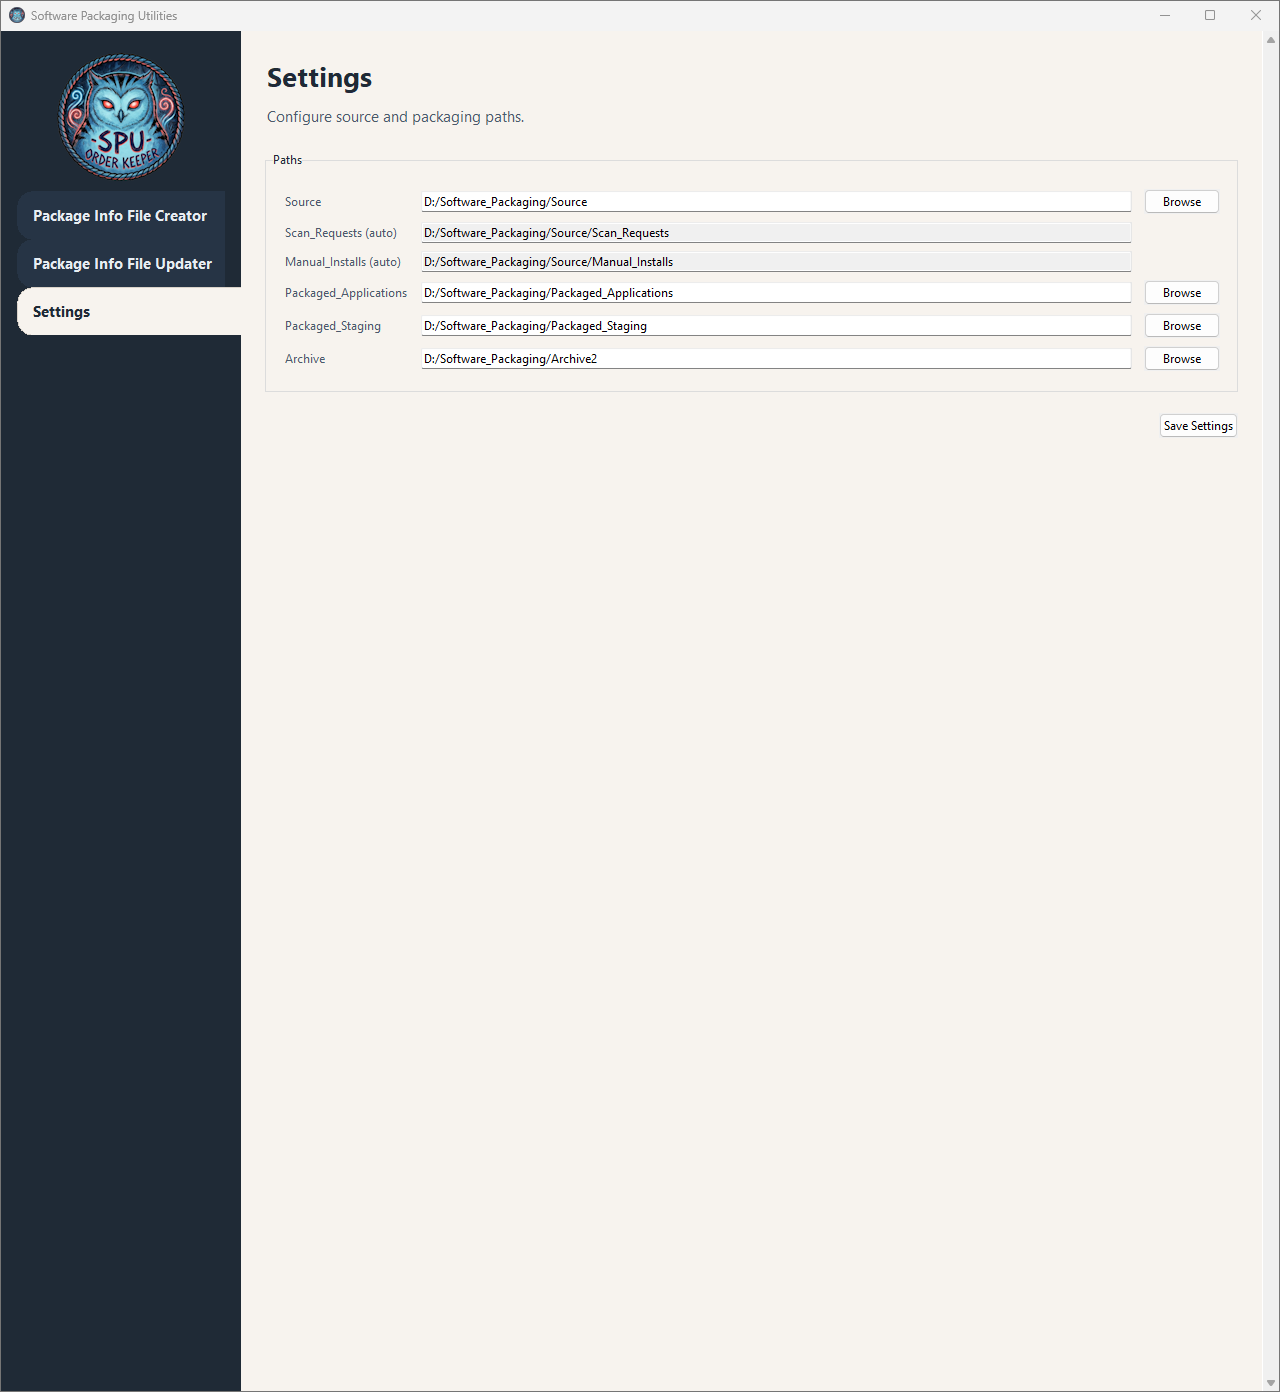
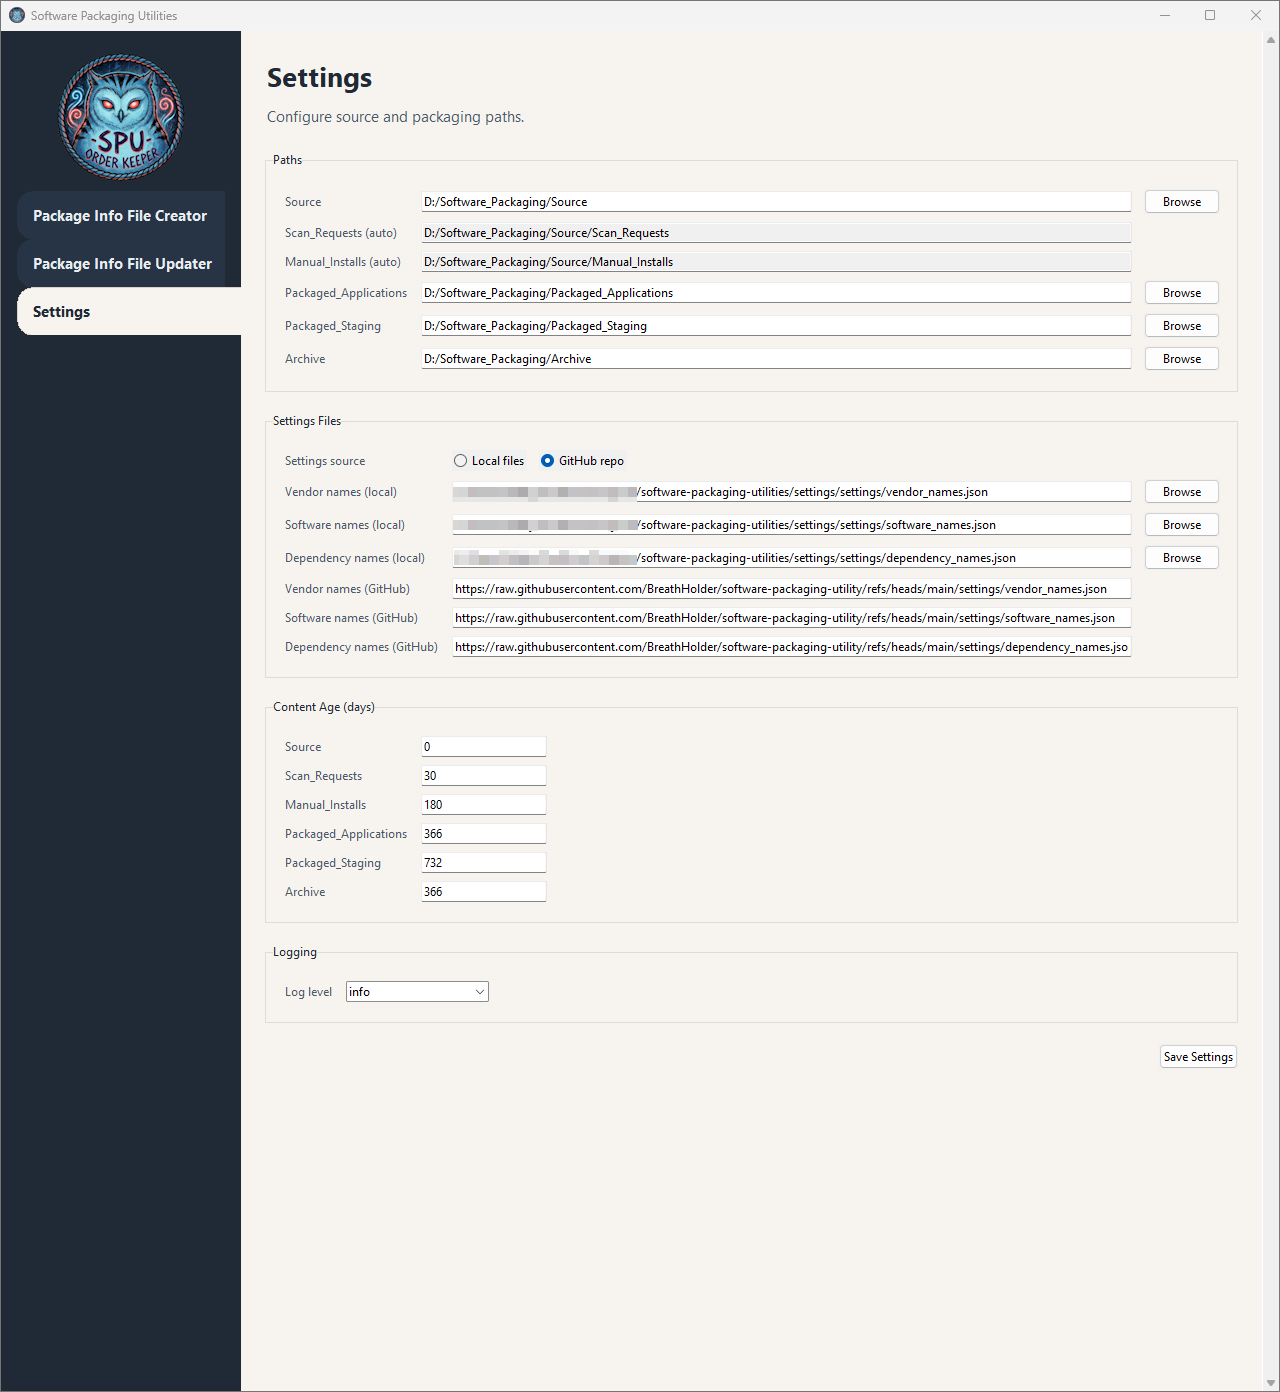
update readme, screenshot, and settings files to include the base construct for logging levels in settings.

diff --git a/src/utils/settings.py b/src/utils/settings.py
@@ -14,6 +14,7 @@ from src.config import (
     FILE_PATHS_DEPENDENCY_NAMES,
     FILE_PATHS_SOFTWARE_NAMES,
     FILE_PATHS_VENDOR_NAMES,
+    LOGGING_LEVEL,
     RETENTION_MANUAL_INSTALLS,
     RETENTION_PACKAGED_APPLICATIONS,
     RETENTION_SCAN_REQUESTs,
@@ -111,6 +112,9 @@ def build_settings_frame(parent: tk.Widget) -> ttk.Frame:
     )
     content_age_archive_var = tk.StringVar(
         value=str(_get_int_setting(settings, "content_age_archive_days", 0))
+    )
+    log_level_var = tk.StringVar(
+        value=_get_string_setting(settings, "log_level", LOGGING_LEVEL).lower()
     )
 
     def set_dirty(value: bool = True) -> None:
@@ -303,6 +307,23 @@ def build_settings_frame(parent: tk.Widget) -> ttk.Frame:
         on_change=mark_dirty,
     )
 
+    logging_group = ttk.LabelFrame(frame, text="Logging", padding=16)
+    logging_group.pack(fill=tk.X, pady=(0, 20))
+    logging_group.columnconfigure(1, weight=1)
+
+    ttk.Label(logging_group, text="Log level", style="Body.TLabel").grid(
+        row=0, column=0, sticky="w", pady=4, padx=(0, 12)
+    )
+    log_level_combo = ttk.Combobox(
+        logging_group,
+        textvariable=log_level_var,
+        values=["debug", "info", "warn", "error"],
+        state="readonly",
+        width=20,
+    )
+    log_level_combo.grid(row=0, column=1, sticky="w", pady=4)
+    log_level_combo.bind("<<ComboboxSelected>>", mark_dirty)
+
     actions = ttk.Frame(frame, style="Content.TFrame")
     actions.pack(fill=tk.X)
     save_button = ttk.Button(
@@ -329,6 +350,7 @@ def build_settings_frame(parent: tk.Widget) -> ttk.Frame:
             content_age_packaged_applications_var.get(),
             content_age_packaged_staging_var.get(),
             content_age_archive_var.get(),
+            log_level_var.get(),
             set_dirty,
         ),
     )
@@ -413,6 +435,7 @@ def _save_settings(
     content_age_packaged_applications_days: str,
     content_age_packaged_staging_days: str,
     content_age_archive_days: str,
+    log_level: str,
     set_dirty,
 ) -> None:
     """Validate inputs and persist settings to settings.json.
@@ -472,6 +495,16 @@ def _save_settings(
 
     for key, value in age_fields.items():
         updated[key] = int(value.strip())
+
+    normalized_level = log_level.strip().lower()
+    valid_levels = {"debug", "info", "warn", "error"}
+    if normalized_level not in valid_levels:
+        messagebox.showerror(
+            "Invalid Log Level",
+            "Select one of: debug, info, warn, error.",
+        )
+        return
+    updated["log_level"] = normalized_level
 
     SETTINGS_DIR.mkdir(parents=True, exist_ok=True)
     try:

diff --git a/README.md b/README.md
@@ -7,7 +7,7 @@ A Python application for package managing application source, standardize applic
 - **Configurable Settings**: Configure source/packaging paths, settings file sources, and content age from the Settings tab.
 - **Robust Error Handling**: Comprehensive error handling and logging, with breakouts for distinct error logging and function execution results.
 - **Type Safety**: Ensure type checking to prevent bottle-necked processes.
-- **Testing**: 
+- **Testing**:
 
 ## Prerequisites
 
@@ -229,6 +229,7 @@ flake8 src/ tests/
 ### Common Issues (not built yet)
 
 ## Prerequisites
+
 - Python 3 installed (or use the packaged `app.exe` built with PyInstaller --not implemented yet).
 - No network access required. Logs are written locally in `logs/`.
 
@@ -246,26 +247,33 @@ flake8 src/ tests/
 
 ## Utility 1: PackageInfo.txt File Builder
 
-- **Purpose**: 
+- **Purpose**: Streamlines the creation of `PackageInfo.txt` files, which are essential for standardizing software packaging. This tool provides a user-friendly interface to:
+  - **Automate Metadata Extraction**: Automatically loads an installer file (`.msi`, `.exe`) and extracts key metadata such as software version, architecture, and cryptographic hashes (SHA1/SHA256).
+  - **Standardize Data Entry**: Offers structured fields for manually entering required information, including request details, licensing, software dependencies, and vulnerability scan results.
+  - **Prepare for Packaging**: Optionally creates a standardized folder structure for the package, moving the source installer and the newly generated `PackageInfo.txt` into a dedicated directory.
 
 ## Utility 2: Package Directory Builder
 
-- **Purpose**: 
+- **Purpose**:
 
 ## Utility 3: Settings Management
 
-- **Purpose**: Configure base paths, content age (days), and JSON settings sources (local vs GitHub).
+- **Purpose**: Provides a centralized UI to configure the application's core settings, which are persisted in `settings/settings.json`. This includes:
+  - **Path Configuration**: Define the root paths for software source, packaging, staging, and archives.
+  - **Logging Level**: Set the application's logging verbosity (Debug, Info, Warn, Error).
+  - **Content Retention Policies**: Set the maximum age (in days) for content in different directories before it's flagged for review or cleanup.
+  - **Picklist Source Management**: Choose whether to load picklists (for vendors, software names, etc.) from local `.json` files or from a remote GitHub repository, allowing for centralized management of these lists.
 
 ## Utility 4: Scan & Report Generation
 
 ### Standard Adherence
 
-- **Purpose**: 
+- **Purpose**:
 
 ### Picklist Deviations & Updates
 
-- **Purpose**: 
+- **Purpose**:
 
 ### Package Clean-Up
 
-- **Purpose**: 
+- **Purpose**:
